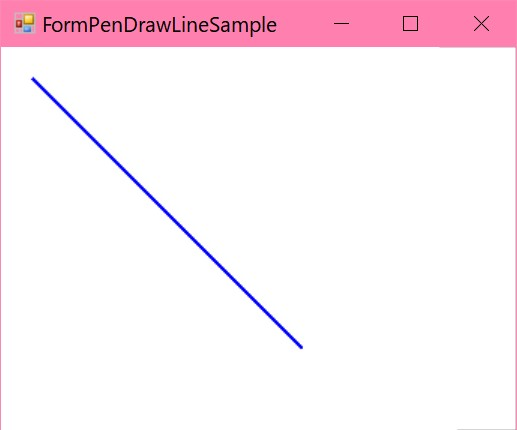
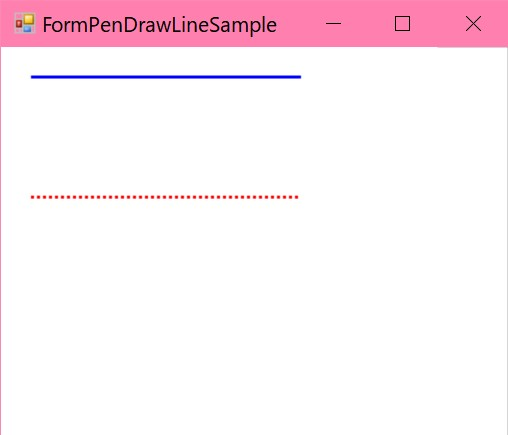
2022-08-18-1200

diff --git a/WinFormSample/KaiteiNet/KT07_Graphics/MainPenDrawLineSample.cs b/WinFormSample/KaiteiNet/KT07_Graphics/MainPenDrawLineSample.cs
@@ -9,12 +9,14 @@
  *           http://kaitei.net/csforms/graphics/
  *           =>〔~/Reference/Article_KaiteiNet/WinForm07_Graphics.txt〕
  *           
- *@content KT07 Graphics 
+ *@content KT07 Graphics | RR[5] p31, RR[266] p616
  *@subject ◆Graphics : MarshalByRefObject, IDisposable, IDeviceContext
  *             -- System.Drawing
+ *         ・GDI+ (Graphics Device Interface): C言語?で記述されたグラフィックス機能を内部的に呼出
  *         ・描画キャンバスのような存在
  *         ・グラフィックス処理を行うためには、
  *           描画対象の Form, Controlに関連付けた Graphicsオブジェクトを取得する必要がある
+ *         ・Controlは PictureBoxなど, Bitmapクラスも可
  *         ・描画対象に結び付けられた Graphics オブジェクトは，
  *           その描画対象の Paint イベントハンドラの引数 PaintEventArgs e から取得可。
  *         ・PaintEventHandlerは control.Paint += new PaintEventHandler(...); が必要
@@ -30,6 +32,9 @@
  *         Graphics   e.Graphics
  *         
  *         Graphics   control.CreateGraphics()   // Paint イベントハンドラ以外の場所で Graphics オブジェクトを取得したい場合に利用
+ *                                               // CreateGraphics()で生成した描画は、Form/Controlが再描画される際に消えてしまう
+ *                                               // => PaintEventArgsから Graphicsオブジェクトを取得すべき
+ *                                               // => Bitmapオブジェクトに描画して保存する方法もある
  *         void       graphics.Dispose()         // CreateGraphics()で生成した Graphicsオブジェクトは 使い終わる度に 破棄する
  *         
  *         ＊直線の描画
@@ -41,11 +46,29 @@
  *         ・Pen クラスを用いて，特定の色と太さを持つ，仮想のペンを定義
  *         ・自己定義した Pen オブジェクトは，使い終る度に Dispose メソッドで破棄する
  *         
- *         Pen   　new Pen(Brush)
- *         Pen     new Pen(Bursh, float width)
  *         Pen   　new Pen(Color)
  *         Pen     new Pen(Color, float width)
+ *         Pen   　new Pen(Brush)
+ *         Pen     new Pen(Bursh, float width)
+ *         Pen     Pens.Xxxx      標準色 Xxxxを指定 Pens struct
  *         
+ *         Color      pen.Color
+ *         Brush      pen.Brush
+ *         float      pen.Width
+ *         
+ *         DashStyle  pen.DashStyle  
+ *           └ enum DashStyle  -- System.Drawing.Drawing2D.
+ *             {
+ *                Solid = 0,      //実線
+ *                Dash = 1,       //ダッシュ「―」で構成される直線
+ *                Dot = 2,        //ドット「・」で構成される直線
+ *                DashDot = 3,    //ダッシュとドットの繰り返しパターン
+ *                DashDotDot = 4, //ダッシュと 2つのドットの繰り返しパターン
+ *                Custom = 5      //ユーザー定義のカスタム ダッシュ スタイル
+ *             }
+ *         float[]    pen.DashPattern   DashStyle.Customのとき
+ *                                      破線内の代替ダッシュと空白の長さを指定する実数の配列。
+ *         float[]    pen.CompoundArray 平行線の複線。0 ～ 1 の値を昇順に並べた配列
  *         void    pen.Dispose()
  *         
  *         ＊SystemPensクラス -- Syatem.Drawing
@@ -61,6 +84,7 @@
  */
 using System;
 using System.Drawing;
+using System.Drawing.Drawing2D;
 using System.Windows.Forms;
 
 namespace WinFormGUI.WinFormSample.KaiteiNet.KT07_Graphics
@@ -99,10 +123,19 @@ namespace WinFormGUI.WinFormSample.KaiteiNet.KT07_Graphics
         {
             base.OnPaint(e);
             Graphics g = e.Graphics;
-            Pen pen = new Pen(Color.Blue, 2);
-            g.DrawLine(pen, 20, 20, 200, 200);
+            
+            Pen pen1 = new Pen(Color.Blue, 2);
+            g.DrawLine(pen1, 20, 20, 200, 20);
+            
+            Pen pen2 = new Pen(Color.Red, 2)
+            {
+                DashStyle = DashStyle.Dot,
+            };
+            g.DrawLine(pen2, 20, 100, 200, 100);
 
-            pen.Dispose();
+            pen1.Dispose();
+            pen2.Dispose();
+            g.Dispose();
         }//OnPaint()
     }//class
 }
